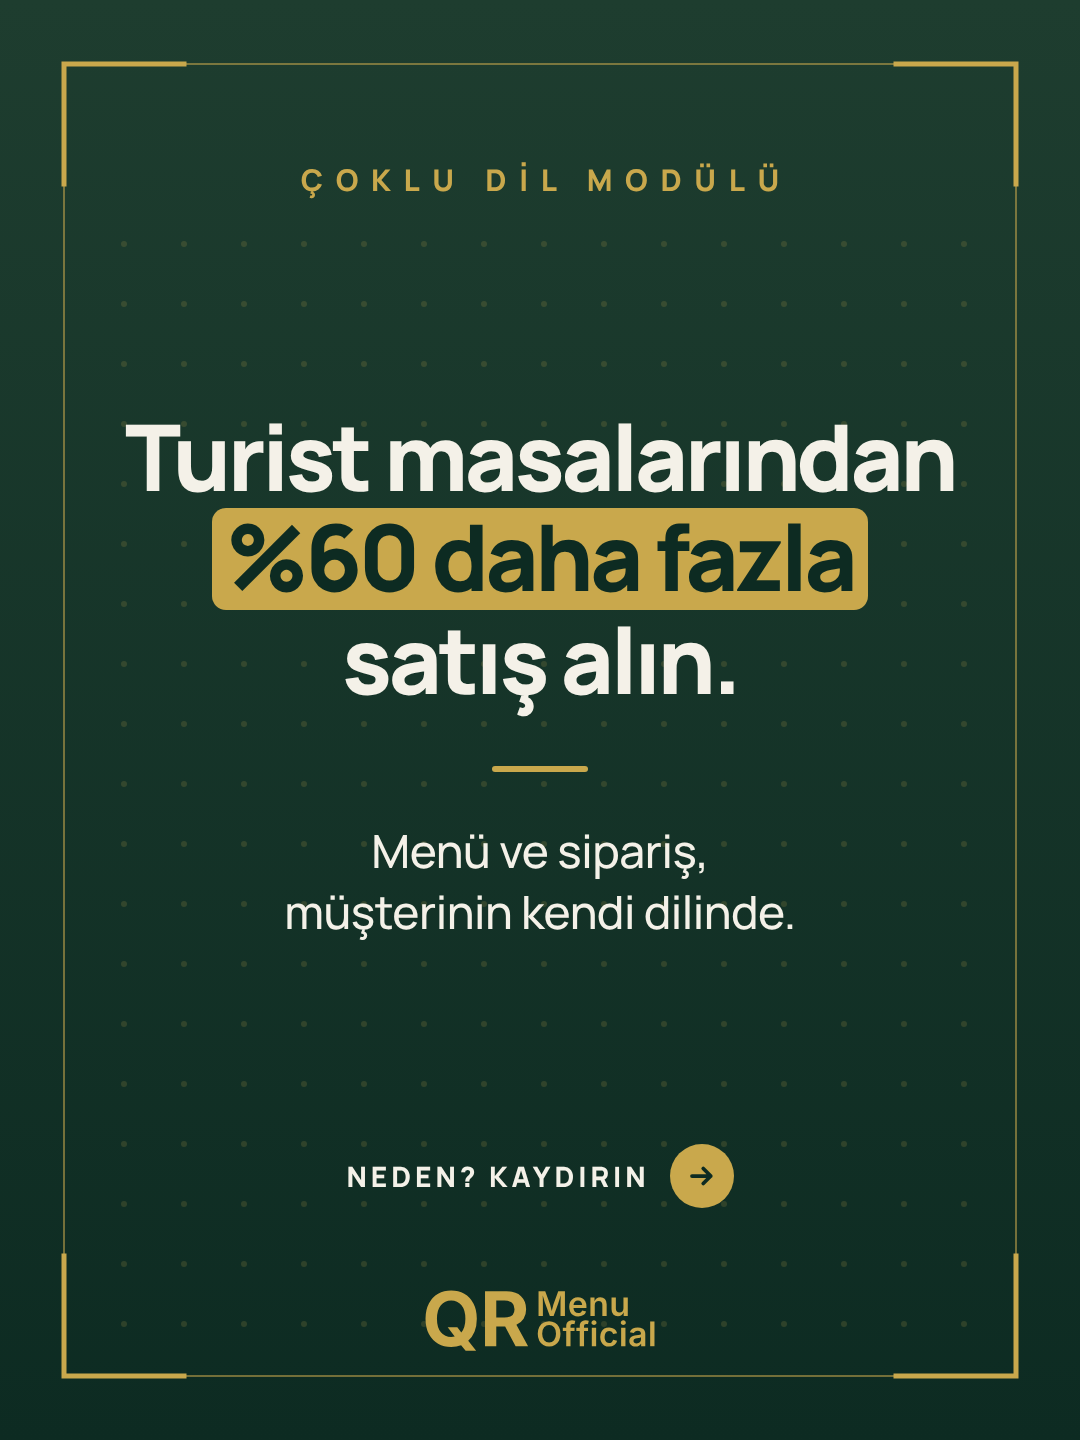
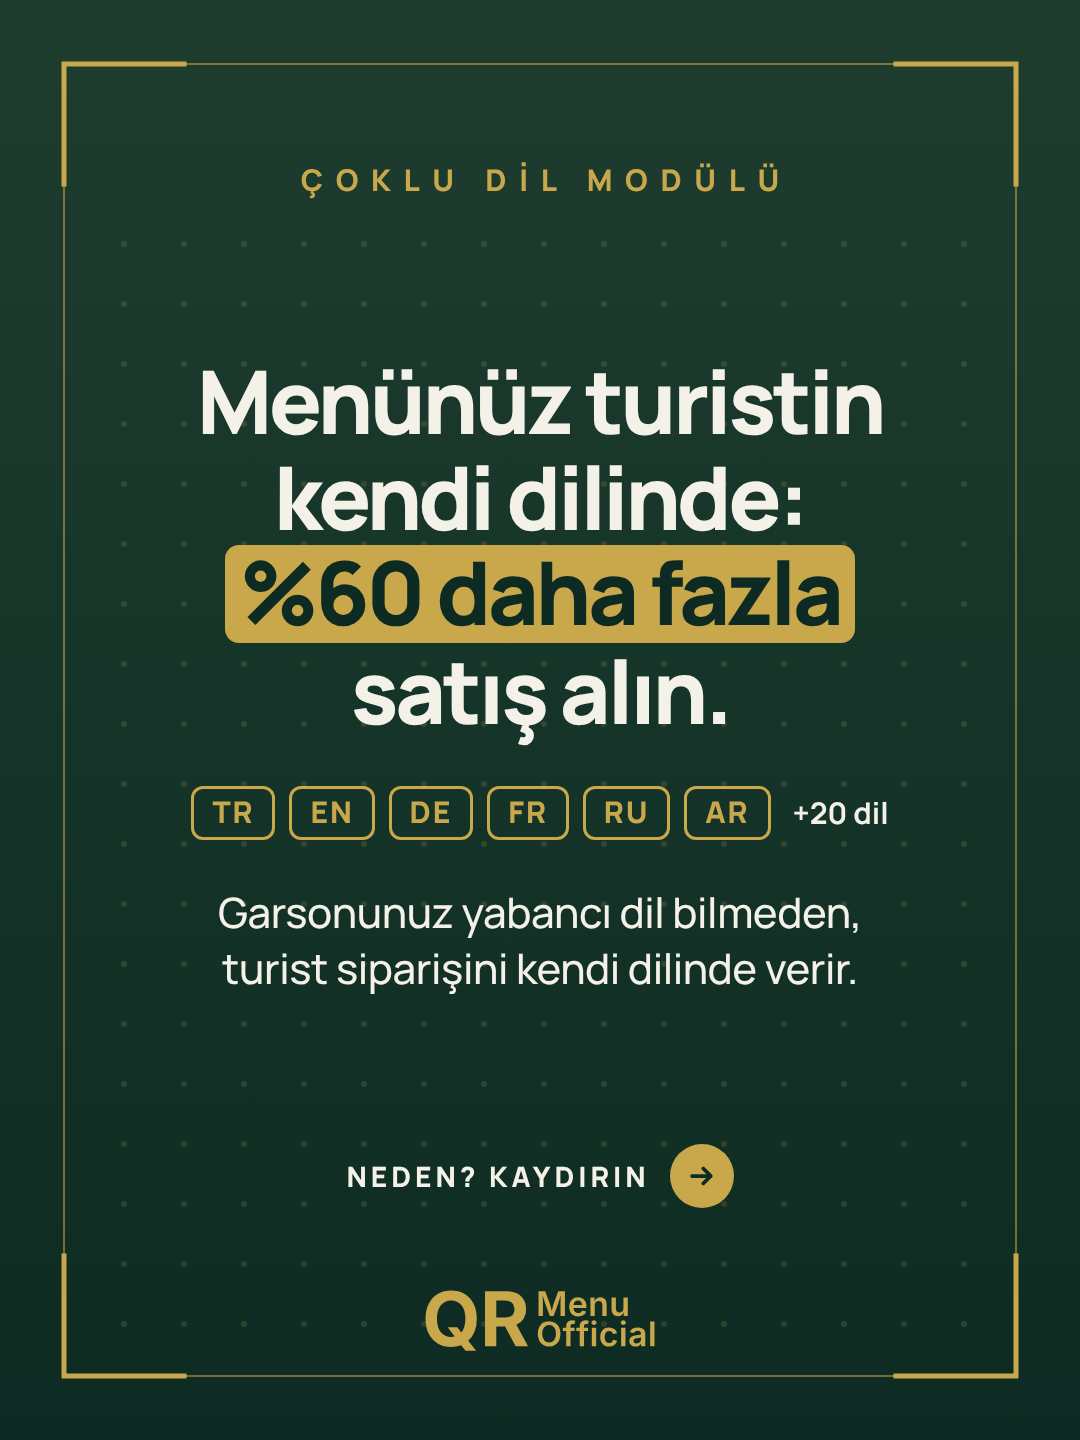
Carousel kapağı: modül belirgin (dil başlıkta, dil kodları)
Claude-Session: https://claude.ai/code/session_01FBw9rVwrniVjyFvtgVdFXq

Changed region(s): [[0.1222, 0.25, 0.8861, 0.6875], [0.7333, 0.5625, 0.825, 0.5938]]

diff --git a/analiz/carousel-dil/carousel-v6.html b/analiz/carousel-dil/carousel-v6.html
@@ -86,7 +86,10 @@ body{background:linear-gradient(var(--y2),var(--y))!important;color:var(--off)!i
 .chk i{border:3px solid var(--g);width:52px;height:52px}.chk i svg{stroke:#C9A84C!important}
 .q .t{font-size:38px!important}.qs{gap:36px!important;margin-top:40px!important}
 .area.top{top:190px;bottom:230px}
-.rg{display:none!important}</style></head><body>
+.rg{display:none!important}.langs{display:flex;gap:14px;align-items:center;justify-content:center;margin:48px 0 44px}
+.langs span{font-weight:800;font-size:30px;letter-spacing:.06em;color:var(--g);border:3px solid var(--g);border-radius:12px;padding:8px 18px 10px;line-height:1}
+.langs em{font-style:normal;font-weight:700;font-size:30px;color:var(--off);margin-left:8px}
+</style></head><body>
 <svg class="rg a" width="1080" height="1440" viewBox="0 0 1080 1440" fill="none"><g><circle cx="1200" cy="300" r="180" stroke="#0D2B22" stroke-width="3.0" opacity="0.198"/><circle cx="1200" cy="300" r="300" stroke="#0D2B22" stroke-width="2.6" opacity="0.162"/><circle cx="1200" cy="300" r="420" stroke="#0D2B22" stroke-width="2.2" opacity="0.126"/><circle cx="1200" cy="300" r="540" stroke="#0D2B22" stroke-width="2.0" opacity="0.095"/><circle cx="1200" cy="300" r="660" stroke="#0D2B22" stroke-width="1.6" opacity="0.068"/><circle cx="1200" cy="300" r="780" stroke="#0D2B22" stroke-width="1.4" opacity="0.045"/><circle cx="1200" cy="300" r="900" stroke="#0D2B22" stroke-width="1.2" opacity="0.032"/></g><g><circle cx="-120" cy="1560" r="180" stroke="#0D2B22" stroke-width="2.4" opacity="0.135"/><circle cx="-120" cy="1560" r="300" stroke="#0D2B22" stroke-width="2" opacity="0.099"/><circle cx="-120" cy="1560" r="420" stroke="#0D2B22" stroke-width="1.6" opacity="0.068"/><circle cx="-120" cy="1560" r="520" stroke="#0D2B22" stroke-width="1.3" opacity="0.045"/></g></svg> <svg class="rg z" width="1080" height="1440" viewBox="0 0 1080 1440" fill="none"><g><circle cx="1200" cy="300" r="180" stroke="#C9A84C" stroke-width="3.0" opacity="0.242"/><circle cx="1200" cy="300" r="300" stroke="#C9A84C" stroke-width="2.6" opacity="0.198"/><circle cx="1200" cy="300" r="420" stroke="#C9A84C" stroke-width="2.2" opacity="0.154"/><circle cx="1200" cy="300" r="540" stroke="#C9A84C" stroke-width="2.0" opacity="0.116"/><circle cx="1200" cy="300" r="660" stroke="#C9A84C" stroke-width="1.6" opacity="0.083"/><circle cx="1200" cy="300" r="780" stroke="#C9A84C" stroke-width="1.4" opacity="0.055"/><circle cx="1200" cy="300" r="900" stroke="#C9A84C" stroke-width="1.2" opacity="0.039"/></g><g><circle cx="-120" cy="1560" r="180" stroke="#C9A84C" stroke-width="2.4" opacity="0.165"/><circle cx="-120" cy="1560" r="300" stroke="#C9A84C" stroke-width="2" opacity="0.121"/><circle cx="-120" cy="1560" r="420" stroke="#C9A84C" stroke-width="1.6" opacity="0.083"/><circle cx="-120" cy="1560" r="520" stroke="#C9A84C" stroke-width="1.3" opacity="0.055"/></g></svg>
 <svg class="fr" width="1080" height="1440" viewBox="0 0 1080 1440" fill="none" stroke="#C9A84C" stroke-linecap="square"><rect x="64" y="64" width="952" height="1312" stroke-width="2" opacity=".55"/><g stroke-width="5"><path d="M64 184V64h120M896 64h120v120M1016 1256v120H896M184 1376H64V1256"/></g></svg><svg style="position:absolute;inset:0;z-index:0" width="1080" height="1440" fill="#C9A84C" opacity=".17"><circle cx="124" cy="244" r="3"/><circle cx="124" cy="304" r="3"/><circle cx="124" cy="364" r="3"/><circle cx="124" cy="424" r="3"/><circle cx="124" cy="484" r="3"/><circle cx="124" cy="544" r="3"/><circle cx="124" cy="604" r="3"/><circle cx="124" cy="664" r="3"/><circle cx="124" cy="724" r="3"/><circle cx="124" cy="784" r="3"/><circle cx="124" cy="844" r="3"/><circle cx="124" cy="904" r="3"/><circle cx="124" cy="964" r="3"/><circle cx="124" cy="1024" r="3"/><circle cx="124" cy="1084" r="3"/><circle cx="124" cy="1144" r="3"/><circle cx="124" cy="1204" r="3"/><circle cx="124" cy="1264" r="3"/><circle cx="124" cy="1324" r="3"/><circle cx="184" cy="244" r="3"/><circle cx="184" cy="304" r="3"/><circle cx="184" cy="364" r="3"/><circle cx="184" cy="424" r="3"/><circle cx="184" cy="484" r="3"/><circle cx="184" cy="544" r="3"/><circle cx="184" cy="604" r="3"/><circle cx="184" cy="664" r="3"/><circle cx="184" cy="724" r="3"/><circle cx="184" cy="784" r="3"/><circle cx="184" cy="844" r="3"/><circle cx="184" cy="904" r="3"/><circle cx="184" cy="964" r="3"/><circle cx="184" cy="1024" r="3"/><circle cx="184" cy="1084" r="3"/><circle cx="184" cy="1144" r="3"/><circle cx="184" cy="1204" r="3"/><circle cx="184" cy="1264" r="3"/><circle cx="184" cy="1324" r="3"/><circle cx="244" cy="244" r="3"/><circle cx="244" cy="304" r="3"/><circle cx="244" cy="364" r="3"/><circle cx="244" cy="424" r="3"/><circle cx="244" cy="484" r="3"/><circle cx="244" cy="544" r="3"/><circle cx="244" cy="604" r="3"/><circle cx="244" cy="664" r="3"/><circle cx="244" cy="724" r="3"/><circle cx="244" cy="784" r="3"/><circle cx="244" cy="844" r="3"/><circle cx="244" cy="904" r="3"/><circle cx="244" cy="964" r="3"/><circle cx="244" cy="1024" r="3"/><circle cx="244" cy="1084" r="3"/><circle cx="244" cy="1144" r="3"/><circle cx="244" cy="1204" r="3"/><circle cx="244" cy="1264" r="3"/><circle cx="244" cy="1324" r="3"/><circle cx="304" cy="244" r="3"/><circle cx="304" cy="304" r="3"/><circle cx="304" cy="364" r="3"/><circle cx="304" cy="424" r="3"/><circle cx="304" cy="484" r="3"/><circle cx="304" cy="544" r="3"/><circle cx="304" cy="604" r="3"/><circle cx="304" cy="664" r="3"/><circle cx="304" cy="724" r="3"/><circle cx="304" cy="784" r="3"/><circle cx="304" cy="844" r="3"/><circle cx="304" cy="904" r="3"/><circle cx="304" cy="964" r="3"/><circle cx="304" cy="1024" r="3"/><circle cx="304" cy="1084" r="3"/><circle cx="304" cy="1144" r="3"/><circle cx="304" cy="1204" r="3"/><circle cx="304" cy="1264" r="3"/><circle cx="304" cy="1324" r="3"/><circle cx="364" cy="244" r="3"/><circle cx="364" cy="304" r="3"/><circle cx="364" cy="364" r="3"/><circle cx="364" cy="424" r="3"/><circle cx="364" cy="484" r="3"/><circle cx="364" cy="544" r="3"/><circle cx="364" cy="604" r="3"/><circle cx="364" cy="664" r="3"/><circle cx="364" cy="724" r="3"/><circle cx="364" cy="784" r="3"/><circle cx="364" cy="844" r="3"/><circle cx="364" cy="904" r="3"/><circle cx="364" cy="964" r="3"/><circle cx="364" cy="1024" r="3"/><circle cx="364" cy="1084" r="3"/><circle cx="364" cy="1144" r="3"/><circle cx="364" cy="1204" r="3"/><circle cx="364" cy="1264" r="3"/><circle cx="364" cy="1324" r="3"/><circle cx="424" cy="244" r="3"/><circle cx="424" cy="304" r="3"/><circle cx="424" cy="364" r="3"/><circle cx="424" cy="424" r="3"/><circle cx="424" cy="484" r="3"/><circle cx="424" cy="544" r="3"/><circle cx="424" cy="604" r="3"/><circle cx="424" cy="664" r="3"/><circle cx="424" cy="724" r="3"/><circle cx="424" cy="784" r="3"/><circle cx="424" cy="844" r="3"/><circle cx="424" cy="904" r="3"/><circle cx="424" cy="964" r="3"/><circle cx="424" cy="1024" r="3"/><circle cx="424" cy="1084" r="3"/><circle cx="424" cy="1144" r="3"/><circle cx="424" cy="1204" r="3"/><circle cx="424" cy="1264" r="3"/><circle cx="424" cy="1324" r="3"/><circle cx="484" cy="244" r="3"/><circle cx="484" cy="304" r="3"/><circle cx="484" cy="364" r="3"/><circle cx="484" cy="424" r="3"/><circle cx="484" cy="484" r="3"/><circle cx="484" cy="544" r="3"/><circle cx="484" cy="604" r="3"/><circle cx="484" cy="664" r="3"/><circle cx="484" cy="724" r="3"/><circle cx="484" cy="784" r="3"/><circle cx="484" cy="844" r="3"/><circle cx="484" cy="904" r="3"/><circle cx="484" cy="964" r="3"/><circle cx="484" cy="1024" r="3"/><circle cx="484" cy="1084" r="3"/><circle cx="484" cy="1144" r="3"/><circle cx="484" cy="1204" r="3"/><circle cx="484" cy="1264" r="3"/><circle cx="484" cy="1324" r="3"/><circle cx="544" cy="244" r="3"/><circle cx="544" cy="304" r="3"/><circle cx="544" cy="364" r="3"/><circle cx="544" cy="424" r="3"/><circle cx="544" cy="484" r="3"/><circle cx="544" cy="544" r="3"/><circle cx="544" cy="604" r="3"/><circle cx="544" cy="664" r="3"/><circle cx="544" cy="724" r="3"/><circle cx="544" cy="784" r="3"/><circle cx="544" cy="844" r="3"/><circle cx="544" cy="904" r="3"/><circle cx="544" cy="964" r="3"/><circle cx="544" cy="1024" r="3"/><circle cx="544" cy="1084" r="3"/><circle cx="544" cy="1144" r="3"/><circle cx="544" cy="1204" r="3"/><circle cx="544" cy="1264" r="3"/><circle cx="544" cy="1324" r="3"/><circle cx="604" cy="244" r="3"/><circle cx="604" cy="304" r="3"/><circle cx="604" cy="364" r="3"/><circle cx="604" cy="424" r="3"/><circle cx="604" cy="484" r="3"/><circle cx="604" cy="544" r="3"/><circle cx="604" cy="604" r="3"/><circle cx="604" cy="664" r="3"/><circle cx="604" cy="724" r="3"/><circle cx="604" cy="784" r="3"/><circle cx="604" cy="844" r="3"/><circle cx="604" cy="904" r="3"/><circle cx="604" cy="964" r="3"/><circle cx="604" cy="1024" r="3"/><circle cx="604" cy="1084" r="3"/><circle cx="604" cy="1144" r="3"/><circle cx="604" cy="1204" r="3"/><circle cx="604" cy="1264" r="3"/><circle cx="604" cy="1324" r="3"/><circle cx="664" cy="244" r="3"/><circle cx="664" cy="304" r="3"/><circle cx="664" cy="364" r="3"/><circle cx="664" cy="424" r="3"/><circle cx="664" cy="484" r="3"/><circle cx="664" cy="544" r="3"/><circle cx="664" cy="604" r="3"/><circle cx="664" cy="664" r="3"/><circle cx="664" cy="724" r="3"/><circle cx="664" cy="784" r="3"/><circle cx="664" cy="844" r="3"/><circle cx="664" cy="904" r="3"/><circle cx="664" cy="964" r="3"/><circle cx="664" cy="1024" r="3"/><circle cx="664" cy="1084" r="3"/><circle cx="664" cy="1144" r="3"/><circle cx="664" cy="1204" r="3"/><circle cx="664" cy="1264" r="3"/><circle cx="664" cy="1324" r="3"/><circle cx="724" cy="244" r="3"/><circle cx="724" cy="304" r="3"/><circle cx="724" cy="364" r="3"/><circle cx="724" cy="424" r="3"/><circle cx="724" cy="484" r="3"/><circle cx="724" cy="544" r="3"/><circle cx="724" cy="604" r="3"/><circle cx="724" cy="664" r="3"/><circle cx="724" cy="724" r="3"/><circle cx="724" cy="784" r="3"/><circle cx="724" cy="844" r="3"/><circle cx="724" cy="904" r="3"/><circle cx="724" cy="964" r="3"/><circle cx="724" cy="1024" r="3"/><circle cx="724" cy="1084" r="3"/><circle cx="724" cy="1144" r="3"/><circle cx="724" cy="1204" r="3"/><circle cx="724" cy="1264" r="3"/><circle cx="724" cy="1324" r="3"/><circle cx="784" cy="244" r="3"/><circle cx="784" cy="304" r="3"/><circle cx="784" cy="364" r="3"/><circle cx="784" cy="424" r="3"/><circle cx="784" cy="484" r="3"/><circle cx="784" cy="544" r="3"/><circle cx="784" cy="604" r="3"/><circle cx="784" cy="664" r="3"/><circle cx="784" cy="724" r="3"/><circle cx="784" cy="784" r="3"/><circle cx="784" cy="844" r="3"/><circle cx="784" cy="904" r="3"/><circle cx="784" cy="964" r="3"/><circle cx="784" cy="1024" r="3"/><circle cx="784" cy="1084" r="3"/><circle cx="784" cy="1144" r="3"/><circle cx="784" cy="1204" r="3"/><circle cx="784" cy="1264" r="3"/><circle cx="784" cy="1324" r="3"/><circle cx="844" cy="244" r="3"/><circle cx="844" cy="304" r="3"/><circle cx="844" cy="364" r="3"/><circle cx="844" cy="424" r="3"/><circle cx="844" cy="484" r="3"/><circle cx="844" cy="544" r="3"/><circle cx="844" cy="604" r="3"/><circle cx="844" cy="664" r="3"/><circle cx="844" cy="724" r="3"/><circle cx="844" cy="784" r="3"/><circle cx="844" cy="844" r="3"/><circle cx="844" cy="904" r="3"/><circle cx="844" cy="964" r="3"/><circle cx="844" cy="1024" r="3"/><circle cx="844" cy="1084" r="3"/><circle cx="844" cy="1144" r="3"/><circle cx="844" cy="1204" r="3"/><circle cx="844" cy="1264" r="3"/><circle cx="844" cy="1324" r="3"/><circle cx="904" cy="244" r="3"/><circle cx="904" cy="304" r="3"/><circle cx="904" cy="364" r="3"/><circle cx="904" cy="424" r="3"/><circle cx="904" cy="484" r="3"/><circle cx="904" cy="544" r="3"/><circle cx="904" cy="604" r="3"/><circle cx="904" cy="664" r="3"/><circle cx="904" cy="724" r="3"/><circle cx="904" cy="784" r="3"/><circle cx="904" cy="844" r="3"/><circle cx="904" cy="904" r="3"/><circle cx="904" cy="964" r="3"/><circle cx="904" cy="1024" r="3"/><circle cx="904" cy="1084" r="3"/><circle cx="904" cy="1144" r="3"/><circle cx="904" cy="1204" r="3"/><circle cx="904" cy="1264" r="3"/><circle cx="904" cy="1324" r="3"/><circle cx="964" cy="244" r="3"/><circle cx="964" cy="304" r="3"/><circle cx="964" cy="364" r="3"/><circle cx="964" cy="424" r="3"/><circle cx="964" cy="484" r="3"/><circle cx="964" cy="544" r="3"/><circle cx="964" cy="604" r="3"/><circle cx="964" cy="664" r="3"/><circle cx="964" cy="724" r="3"/><circle cx="964" cy="784" r="3"/><circle cx="964" cy="844" r="3"/><circle cx="964" cy="904" r="3"/><circle cx="964" cy="964" r="3"/><circle cx="964" cy="1024" r="3"/><circle cx="964" cy="1084" r="3"/><circle cx="964" cy="1144" r="3"/><circle cx="964" cy="1204" r="3"/><circle cx="964" cy="1264" r="3"/><circle cx="964" cy="1324" r="3"/></svg><div class="s" id="S"></div>
 <script>
@@ -112,9 +115,9 @@ const MOD='QR MENÜ OFFICIAL<small>ÇOKLU DİL MODÜLÜ</small>';const FT='<div 
 const nx=(t,c)=>`<div class="nx">${t}<i>${ARW(c)}</i></div>`;
 const SL={
 1:{bg:'altin',html:()=>`<div class="lab" style="font-size:30px;padding-top:34px">ÇOKLU DİL MODÜLÜ</div>
- <div class="area c" style="top:210px;bottom:300px"><div class="h" id="H" data-max="92" data-min="76">${L(['Turist masalarından','[[%60 daha fazla]]','satış alın.'])}</div>
- <div class="rule" style="margin:56px 0 48px"></div>
- <div class="p" id="P" data-max="46" data-min="38">${L(['Menü ve sipariş,','müşterinin kendi dilinde.'])}</div></div>
+ <div class="area c" style="top:200px;bottom:290px"><div class="h" id="H" data-max="88" data-min="72">${L(['Menünüz turistin','kendi dilinde:','[[%60 daha fazla]]','satış alın.'])}</div>
+ <div class="langs"><span>TR</span><span>EN</span><span>DE</span><span>FR</span><span>RU</span><span>AR</span><em>+20 dil</em></div>
+ <div class="p" id="P" data-max="42" data-min="36">${L(['Garsonunuz yabancı dil bilmeden,','turist siparişini kendi dilinde verir.'])}</div></div>
  ${nx('Neden? Kaydırın','#F4F1E8').replace('class="nx"','class="nx" style="bottom:232px"')}<div class="logo">${LG()}</div>`},
 2:{bg:'krem',html:()=>`<div class="lab">${MOD}</div>
  <div class="area top"><div class="h" id="H" data-max="84" data-min="64">${L(['Bu 3 soruyu','kendinize [[sorun:]]'])}</div>
